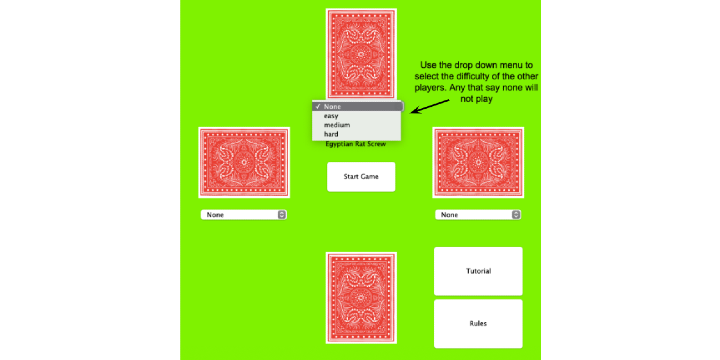
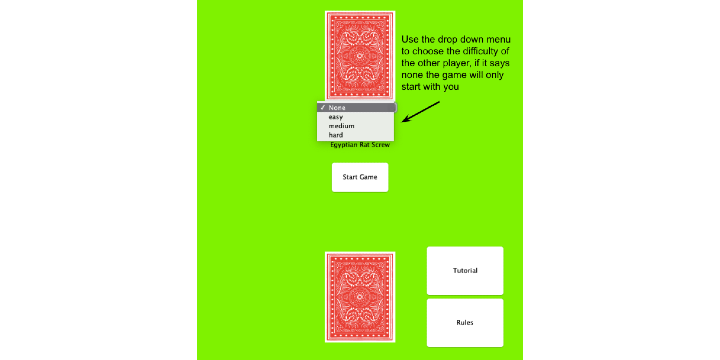
Changed some parts of game and menu screen

Changed region(s): [[0.2444, 0.0, 0.7639, 1.0], [0.4278, 0.7028, 0.55, 0.9778]]

diff --git a/src/MenuScreen.java b/src/MenuScreen.java
@@ -235,9 +235,13 @@ public class MenuScreen extends JPanel implements ActionListener{
 		}
 		else if(eventName.equals("Back to menu")) {
 			ruleFrame.dispose();
+			tutorialFrame.dispose();
 			mainFrame.setVisible(true);
 		}
 		else if(eventName.contentEquals("Game")){
+			ruleFrame.dispose();
+			tutorialFrame.dispose();
+			mainFrame.dispose();
 			int numPlayers = 4;
 			String bot1 = this.getDifficulty(1);
 			if(bot1.equals("None")) {
@@ -245,8 +249,8 @@ public class MenuScreen extends JPanel implements ActionListener{
 			}
 			try {
 				mainFrame.setVisible(false);
-				game = new GamePanel(bot1,bot2,bot3,numPlayers);
-				game.startGame(bot1, bot2, bot3, numPlayers);
+				game = new GamePanel(bot1,numPlayers);
+				game.startGame(bot1, numPlayers);
 			} catch (Exception e) {
 				// TODO Auto-generated catch block
 				e.printStackTrace();

diff --git a/src/GamePanel.java b/src/GamePanel.java
@@ -15,7 +15,7 @@ public class GamePanel extends JPanel implements ActionListener,MouseListener{
 	Boolean playerTurn=true,slap=false,gameOver=false;
 	CenterPile pile = new CenterPile();
 	PlayerPile players[],playerHand,bot1Hand,bot2Hand,bot3Hand;
-	Player bot1Diff,bot2Diff,bot3Diff;
+	Player bot1Diff;
 	int faceSequence;
 	public GamePanel(String bot1, int numPlayers) throws Exception{//remember that animations can be separate from some backend functionality
 		System.out.println("here");
